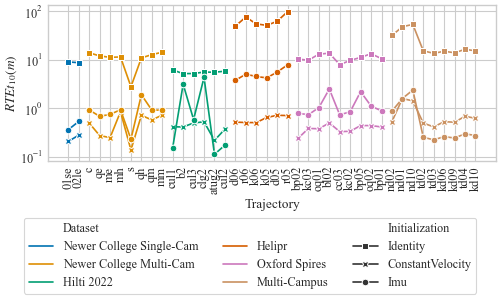
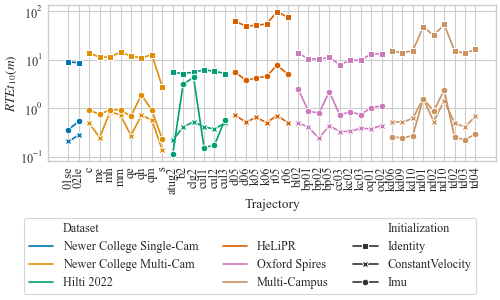
Small tweaks to clean up outputs

diff --git a/experiments/features.py b/experiments/features.py
@@ -6,25 +6,23 @@ import sys
 import numpy as np
 
 sys.path.append("src")
-from params import ExperimentParams, Feature, Initialization, Dewarp
-from wrappers import parser, plt_show, setup_plot
+from params import ExperimentParams, Feature, Initialization
+from wrappers import parser, plt_show, setup_plot, powerset
 from run import run_multithreaded
 from stats import compute_cache_stats
 from env import ALL_TRAJ, LEN, RESULTS_DIR, FIGURE_DIR
 
 
 # dir = Path("results/25.02.06_dewarp_with_init")
-dir = RESULTS_DIR / "25.02.17_all_dewarp_versions"
+dir = RESULTS_DIR / "25.02.17_features"
 
 
 def run(num_threads: int):
     # ------------------------- Everything to sweep over ------------------------- #
-    dewarp = [
-        Dewarp.Identity,
-        Dewarp.ConstantVelocity,
-        Dewarp.Imu,
-        Dewarp.GroundTruthConstantVelocity,
-    ]
+    features = powerset([Feature.Planar, Feature.Edge, Feature.Point])
+    features = [list(f) for f in features]
+
+    use_plane_to_plane = [True, False]
 
     init = [
         # Initialization.Identity,
@@ -36,19 +34,20 @@ def run(num_threads: int):
     # ------------------------- Compute product of options ------------------------- #
     experiments = [
         ExperimentParams(
-            name=f"{de.name}_{i.name}",
+            name=f"{'_'.join([str(f) for f in feats])}_{pp}_{i}",
             dataset=d,
-            features=[Feature.Planar],
-            dewarp=de,
+            features=feats,
+            use_plane_to_plane=pp,
             init=i,
         )
-        for (d, de, i) in product(ALL_TRAJ, dewarp, init)
+        for (feats, pp, i, d) in product(features, use_plane_to_plane, init, ALL_TRAJ)
     ]
 
     run_multithreaded(experiments, dir, num_threads=num_threads, length=LEN)
 
 
 def plot(name: str, force: bool):
+    # TODO
     df = compute_cache_stats(dir, force=force)
 
     df = df.filter(pl.col("Initialization") == "GroundTruth")
@@ -64,7 +63,7 @@ def plot(name: str, force: bool):
         id_val = df_identity.filter(pl.col("dataset") == dataset)[0, "w100_RTEt"]
         df = df.with_columns(
             percent=pl.when(pl.col("dataset") == dataset)
-            .then(pl.col("w100_RTEt") - id_val)
+            .then(pl.col("w100_RTEt") / id_val)
             .otherwise(pl.col("percent"))
         )
 

diff --git a/src/stats.py b/src/stats.py
@@ -370,7 +370,8 @@ def compute_cache_stats(directory: Path, force: bool = False) -> pl.DataFrame:
         )
 
         df = df.sort(
-            pl.col("Dataset").cast(pl.Enum(list(datasets_pretty_names.values())))
+            pl.col("Dataset").cast(pl.Enum(list(datasets_pretty_names.values()))),
+            "Trajectory",
         )
 
         # ------------------------- Cleanup dewarp names ------------------------- #

diff --git a/src/run.py b/src/run.py
@@ -288,6 +288,7 @@ def run_multithreaded(
             desc="Experiments",
             leave=True,
             dynamic_ncols=True,
+            smoothing=0.0,
         ):
             pass
 
